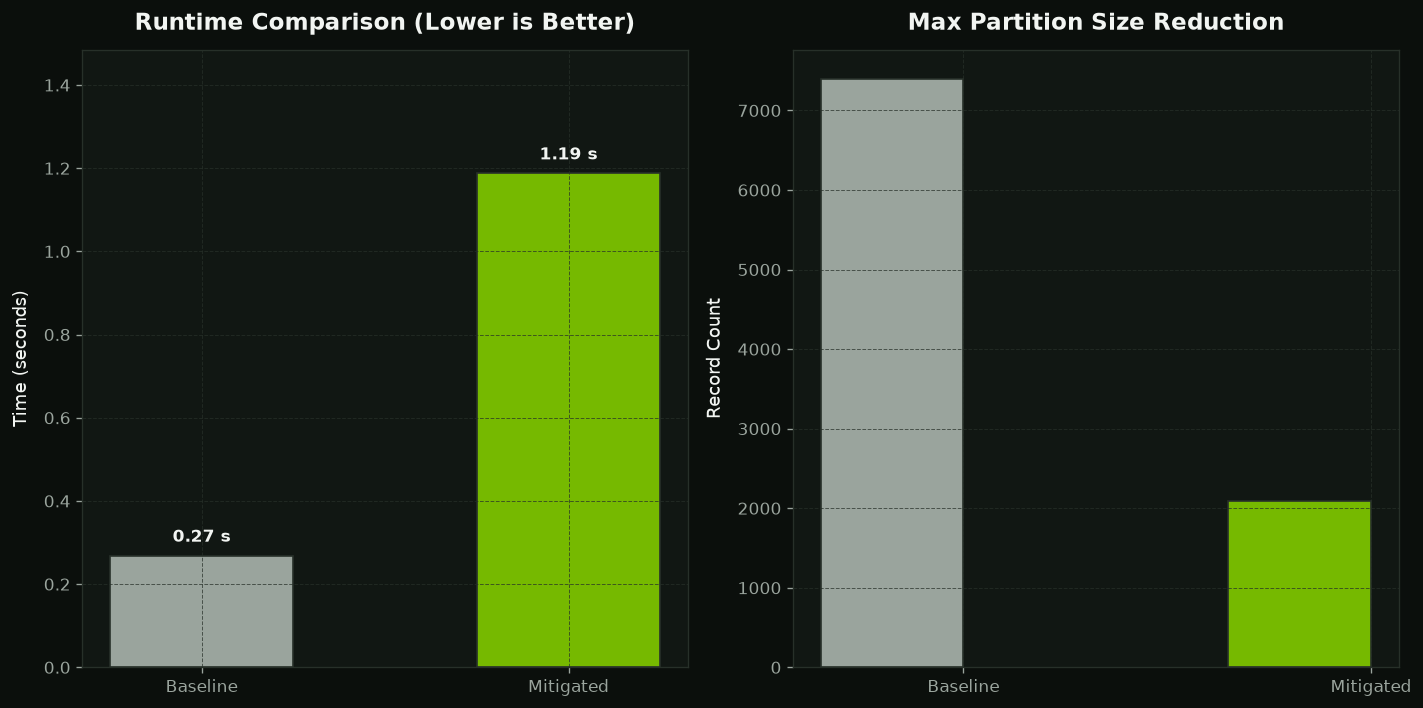
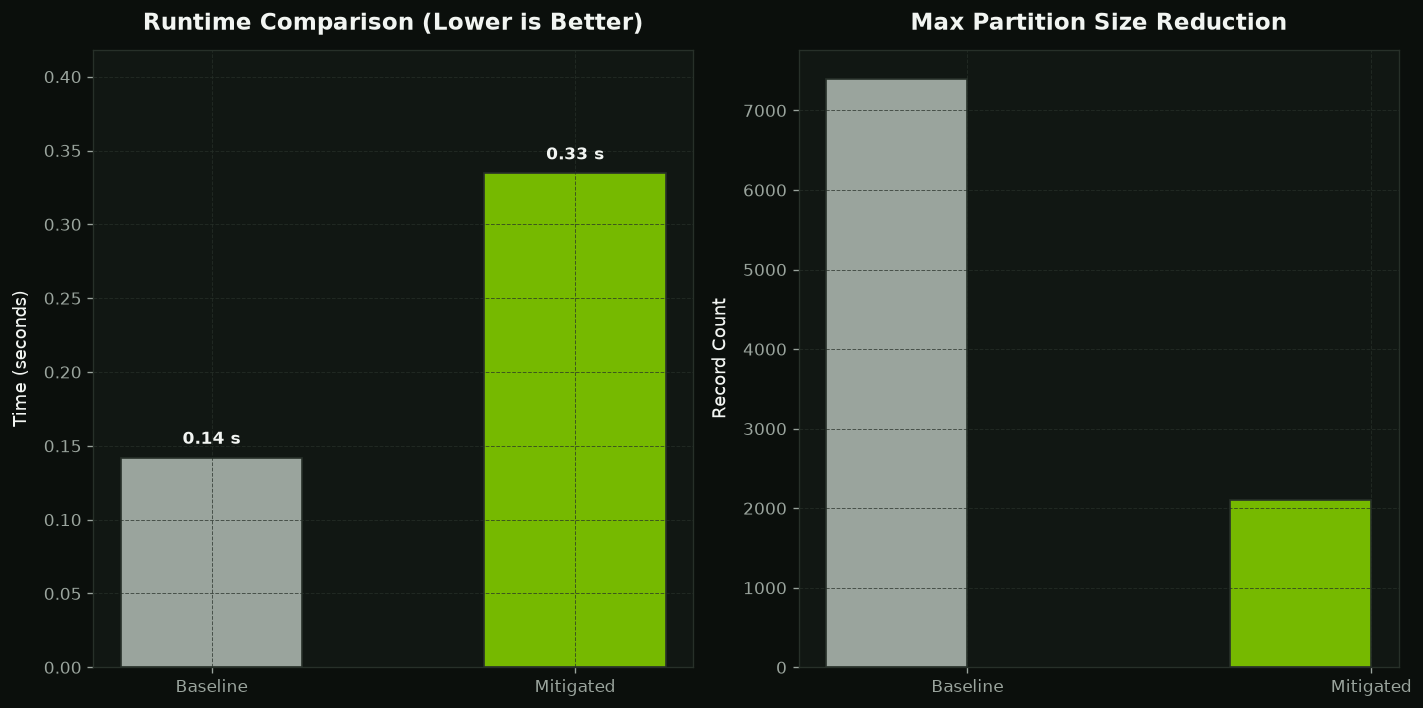
fix(ci): resolve parquet timestamp precision and ruff linting errors; add security policies and CodeQL workflow

diff --git a/core/pipeline.py b/core/pipeline.py
@@ -8,10 +8,9 @@ import subprocess
 import sys
 import time
 import traceback
-from pathlib import Path
-from typing import Any
-
 import warnings
+from pathlib import Path
+
 warnings.filterwarnings("ignore")
 
 from cli.console import (
@@ -23,7 +22,6 @@ from cli.console import (
     print_step,
 )
 from core.config import (
-    DEFAULT_NUM_KEYS,
     DEFAULT_NUM_PARTITIONS,
     DEFAULT_ROWS,
     DEFAULT_SEED,
@@ -36,10 +34,9 @@ from core.config import (
 from core.environment import check_environment
 from core.results import compare_results, save_run_results
 from ml.predict import features_from_baseline, predict_severity
-from ml.train import train_and_select, train_skew_classifiers
-from spark.analyze_skew import analyze, key_frequency_stats
+from ml.train import train_and_select
+from spark.analyze_skew import analyze
 from spark.baseline import run_baseline
-from spark.config import get, resolve_path
 from spark.generate_data import generate_dataset
 from spark.mitigation import run_mitigation
 from spark.session import get_spark_session, stop_spark_session
@@ -66,7 +63,7 @@ def setup_logger() -> tuple[logging.Logger, Path]:
 
 def clean_project_artifacts() -> None:
     """Removes generated datasets, temporary spark warehouse, results, and logs."""
-    from core.config import GENERATED_DATA_DIR, LOGS_DIR, RESULTS_DIR
+    from core.config import GENERATED_DATA_DIR, LOGS_DIR
     for target_dir in [GENERATED_DATA_DIR, RESULTS_DIR, LOGS_DIR]:
         if target_dir.exists():
             shutil.rmtree(target_dir, ignore_errors=True)

diff --git a/visualization/charts.py b/visualization/charts.py
@@ -9,6 +9,7 @@ from pathlib import Path
 from typing import Any, Dict, List
 
 import matplotlib
+
 matplotlib.use("Agg")  # Non-interactive background rendering
 import matplotlib.pyplot as plt
 import numpy as np
@@ -20,8 +21,6 @@ from visualization.theme import (
     GREEN_2,
     GRID,
     MUTED,
-    SURFACE,
-    SURFACE_2,
     TEXT,
     WARNING,
     apply_matplotlib_theme,
@@ -108,7 +107,7 @@ def plot_partition_distribution(partition_sizes: List[int], output_path: str | P
     ax.axhline(max_val, color=ERROR, linestyle="-.", linewidth=1.2, label=f"Max: {max_val:,}")
 
     # Annotate bars
-    for idx, (bar, size) in enumerate(zip(bars, sizes)):
+    for bar, size in zip(bars, sizes):
         ax.text(
             bar.get_x() + bar.get_width() / 2,
             bar.get_height() + (max_val * 0.02),
@@ -247,8 +246,6 @@ def plot_performance_comparison(metrics: Dict[str, Any], output_path: str | Path
     m_rt = metrics.get("mitigated_execution_time", 0.0)
     b_max = metrics.get("baseline_max_partition_records", 0)
     m_max = metrics.get("mitigated_max_partition_records", 0)
-    b_std = metrics.get("baseline_partition_std", 0.0)
-    m_std = metrics.get("mitigated_partition_std", 0.0)
 
     fig, (ax1, ax2) = plt.subplots(1, 2, figsize=(12, 6), dpi=120)
 

diff --git a/cli/menu.py b/cli/menu.py
@@ -6,23 +6,21 @@ dataset profile, Spark metrics, before/after comparison, ML results, and graph v
 from __future__ import annotations
 
 import json
-import sys
 from pathlib import Path
-from typing import Any, Dict, List, Optional
+from typing import Any, Dict, List
 
 from rich.console import Console
 from rich.panel import Panel
 from rich.prompt import Prompt
 from rich.table import Table
 
-from core.config import EXPERIMENTS_RESULTS_DIR, LATEST_RESULTS_DIR, RESULTS_DIR
+from core.config import EXPERIMENTS_RESULTS_DIR, LATEST_RESULTS_DIR
 from visualization.tables import (
-    get_banner_panel,
     get_history_table,
     get_ml_results_table,
     get_summary_table,
 )
-from visualization.theme import ERROR, GREEN, GREEN_2, MUTED, SURFACE, TEXT, WARNING
+from visualization.theme import ERROR, GREEN, GREEN_2, MUTED, TEXT, WARNING
 
 console = Console()
 

diff --git a/spark/generate_data.py b/spark/generate_data.py
@@ -14,7 +14,6 @@ groupBy/shuffle.
 """
 from __future__ import annotations
 
-import os
 from dataclasses import dataclass
 from pathlib import Path
 from typing import Any
@@ -93,7 +92,7 @@ def generate_dataset(
             "key": key_column,
             "value": values,
             "category": category_column,
-            "timestamp": timestamps,
+            "timestamp": pd.to_datetime(timestamps).floor("ms"),
         }
     )
 
@@ -104,7 +103,7 @@ def generate_dataset(
     output = resolve_path(output) if not isinstance(output, Path) else output
     output.parent.mkdir(parents=True, exist_ok=True)
 
-    df.to_parquet(output, index=False, engine="pyarrow")
+    df.to_parquet(output, index=False, engine="pyarrow", coerce_timestamps="ms")
 
     return GenerationResult(
         output_path=output,

diff --git a/spark/session.py b/spark/session.py
@@ -69,10 +69,10 @@ def _init_spark_env():
 
 _init_spark_env()
 
+import contextlib
+
 from pyspark.sql import SparkSession
 
-
-import contextlib
 
 @contextlib.contextmanager
 def _silence_stderr_fd():
@@ -141,6 +141,11 @@ def get_spark_session(
         .config("spark.ui.port", "4040")
         .config("spark.ui.showConsoleProgress", "false")
         .config("spark.hadoop.native.lib", "false")
+        .config("spark.sql.parquet.datetimeRebaseModeInRead", "CORRECTED")
+        .config("spark.sql.parquet.datetimeRebaseModeInWrite", "CORRECTED")
+        .config("spark.sql.parquet.int96RebaseModeInRead", "CORRECTED")
+        .config("spark.sql.parquet.int96RebaseModeInWrite", "CORRECTED")
+        .config("spark.sql.parquet.nanosAsLong", "true")
     )
 
     active = SparkSession.getActiveSession()

diff --git a/visualization/site_generator.py b/visualization/site_generator.py
@@ -31,7 +31,6 @@ def generate_html_content(summary: Dict[str, Any], profile: Dict[str, Any], base
     
     base_time = summary.get("baseline_execution_time", summary.get("before", {}).get("execution_time_sec", 0.0))
     mit_time = summary.get("mitigated_execution_time", summary.get("after", {}).get("execution_time_sec", 0.0))
-    improvement = summary.get("improvement_pct", 0.0)
 
     base_max = baseline.get("max_partition_size", baseline.get("max_partition_records", 0))
     mit_max = mitigated.get("max_partition_size", mitigated.get("max_partition_records", 0))

diff --git a/cli/app.py b/cli/app.py
@@ -32,8 +32,8 @@ if _VENV_SITE.exists() and str(_VENV_SITE) not in sys.path:
 # Reconfigure stdout/stderr to UTF-8 for Windows console compatibility
 if hasattr(sys.stdout, "reconfigure"):
     try:
-        getattr(sys.stdout, "reconfigure")(encoding="utf-8", errors="replace")
-        getattr(sys.stderr, "reconfigure")(encoding="utf-8", errors="replace")
+        sys.stdout.reconfigure(encoding="utf-8", errors="replace")
+        sys.stderr.reconfigure(encoding="utf-8", errors="replace")
     except Exception:
         pass
 

diff --git a/dashboard/app.py b/dashboard/app.py
@@ -19,7 +19,7 @@ if str(PROJECT_ROOT) not in sys.path:
     sys.path.insert(0, str(PROJECT_ROOT))
 
 from spark.config import get, resolve_path
-from visualization.theme import BACKGROUND, ERROR, GREEN, GREEN_2, GRID, MUTED, SURFACE, SURFACE_2, TEXT, WARNING
+from visualization.theme import BACKGROUND, GREEN, GREEN_2, MUTED, SURFACE, SURFACE_2, TEXT, WARNING
 
 st.set_page_config(page_title="Data Skew Intelligence", page_icon="⚡", layout="wide")
 

diff --git a/cli/console.py b/cli/console.py
@@ -1,10 +1,11 @@
 from typing import Any, Dict, List, Optional
+
 from rich.console import Console
 from rich.panel import Panel
 from rich.table import Table
 from rich.text import Text
 
-from visualization.theme import ERROR, GREEN, GREEN_2, MUTED, SURFACE, TEXT, WARNING
+from visualization.theme import ERROR, GREEN, GREEN_2, MUTED, TEXT, WARNING
 
 console = Console()
 

diff --git a/ml/evaluate.py b/ml/evaluate.py
@@ -109,7 +109,7 @@ def evaluate_model_artifact(
             "f1_score": round(float(macro.get("f1-score", 0.0)), 4),
         },
         "confusion_matrix": cm,
-        "labels": [str(l) for l in labels],
+        "labels": [str(lbl) for lbl in labels],
     }
 
     os.makedirs(os.path.dirname(os.path.abspath(output_report_path)), exist_ok=True)

diff --git a/spark/analyze_skew.py b/spark/analyze_skew.py
@@ -15,7 +15,7 @@ from pyspark.sql import DataFrame, SparkSession
 from pyspark.sql import functions as F
 
 from spark.config import get, resolve_path
-from spark.metrics import PartitionStats, get_partition_metrics, shuffle_partition_stats
+from spark.metrics import PartitionStats, shuffle_partition_stats
 
 
 @dataclass

diff --git a/visualization/exporter.py b/visualization/exporter.py
@@ -6,7 +6,6 @@ and generates/validates high-resolution PNG charts under results/<timestamp>/cha
 from __future__ import annotations
 
 import csv
-import json
 import logging
 from pathlib import Path
 from typing import Any, Dict, List, Optional
